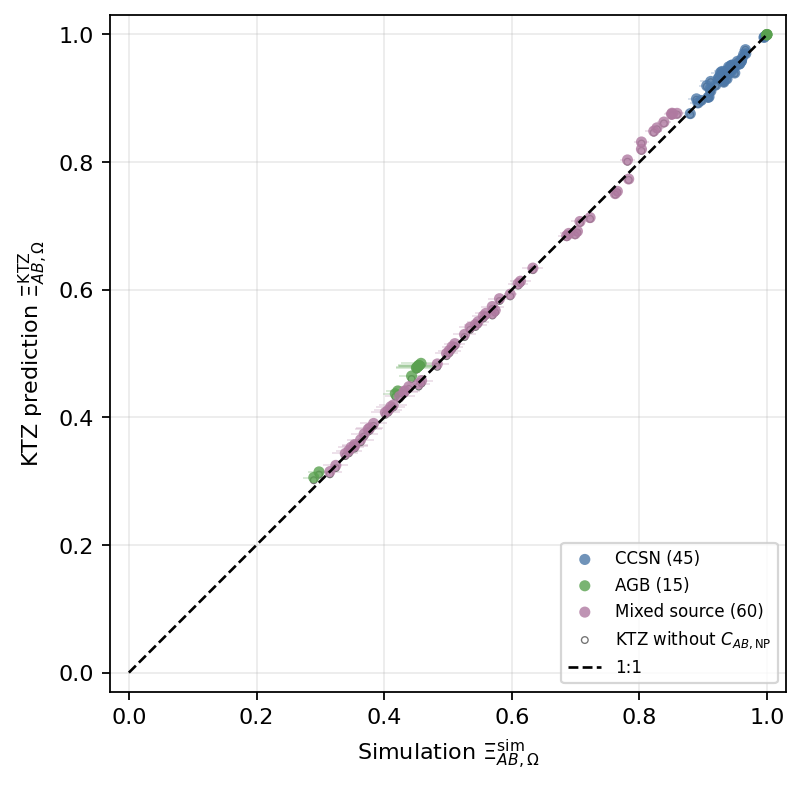
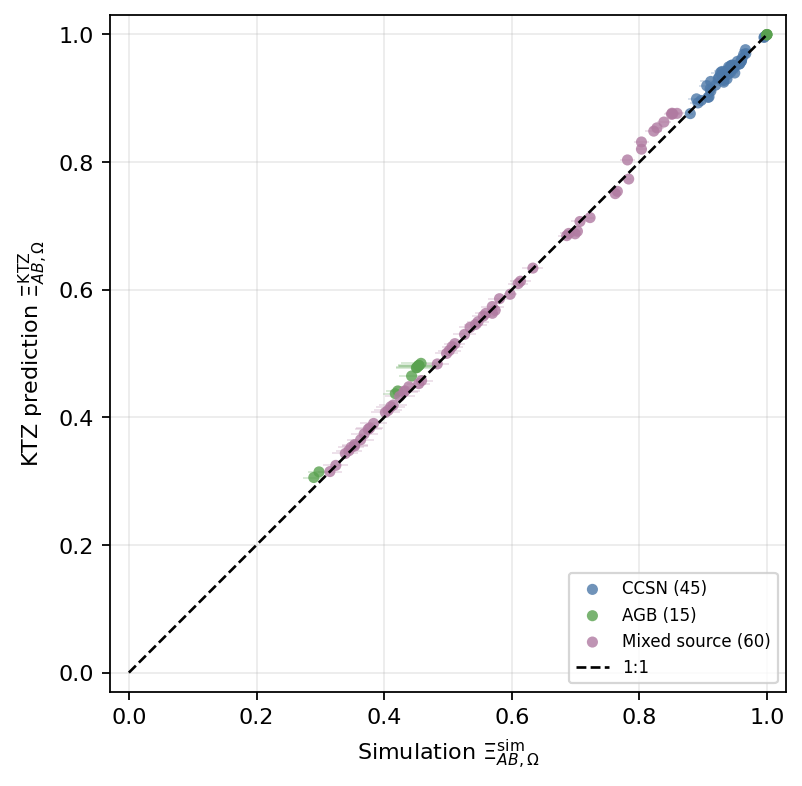
Sync verified manuscript revision and simplify validation Figures 4 and 5

Changed region(s): [[0.6858, 0.6718, 0.9663, 0.855]]

diff --git a/validation/replot_cross_scatter.py b/validation/replot_cross_scatter.py
@@ -1,7 +1,7 @@
-"""Redraw Fig. 5 from archived arrays and original yields, without simulation.
+"""Redraw Fig. 5 (and optionally Fig. 4) from archived arrays, without simulation.
 
 Run from the repository root:
-    python validation/replot_cross_scatter.py --outdir /tmp/ktz-figures
+    python validation/replot_cross_scatter.py --matrices --outdir /tmp/ktz-figures
 """
 import argparse, hashlib, json, sys
 from pathlib import Path
@@ -14,6 +14,7 @@ ap=argparse.ArgumentParser()
 ap.add_argument('--script',default='KTZ_validation.py')
 ap.add_argument('--outdir',default='figs')
 ap.add_argument('--dump')
+ap.add_argument('--matrices', action='store_true', help='Also redraw the Fig. 4 matrices')
 args=ap.parse_args()
 ROOT=Path(__file__).resolve().parents[1]
 script=Path(args.script)
@@ -27,15 +28,25 @@ end=src.index('kt25_delay =',start)
 exec(compile(src[start:end],args.script+' [yield inputs only]','exec'),ns)
 a=dict(np.load(ROOT/'validation/outputs/cross_results.npz'))
 idx=[ns['kt25_elements'].index(e) for e in a['elements']]
-ns.update(Xi_sim=a['Xi_sim'],Xi_sim_err=a['Xi_sim_err'],th_sub=a['Xi_KTZ'],th_sub_n=a['Xi_KTZ_noCNP'],cmean=ns['kt25_mean_yield'][idx])
+ns.update(Xi_sim=a['Xi_sim'],Xi_sim_err=a['Xi_sim_err'],th_sub=a['Xi_KTZ'],th_sub_n=a['Xi_KTZ_noCNP'],kt_sub=a['Xi_KT25'],cross_elements=a['elements'].tolist(),cmean=ns['kt25_mean_yield'][idx])
 out=Path(args.outdir);out.mkdir(parents=True,exist_ok=True)
 ns['figure_path']=lambda name:out/f'validation_{name}.png'
+def h(x):return hashlib.sha256(np.ascontiguousarray(x).tobytes()).hexdigest()
+matrix_panels=[]
+if args.matrices:
+    start=src.index('diff = th_sub - kt_sub;',src.index('# %% Block 12:'))
+    end=src.index('\niu = np.triu_indices(16, 1)',start)
+    exec(compile(src[start:end],args.script+' [matrix plotting only]','exec'),ns)
+    matrix_panels=[{'title':ax.get_title(),'data':h(ax.images[0].get_array()),'clim':list(ax.images[0].get_clim())} for ax in ns['axes']]
 start=src.index('iu = np.triu_indices(16, 1)',src.index('# %% Block 12:'))
 end=src.index('\ndd = s_ - t_',start)
 exec(compile(src[start:end],args.script+' [scatter plotting only]','exec'),ns)
-def h(x):return hashlib.sha256(np.ascontiguousarray(x).tobytes()).hexdigest()
 ax=ns['ax']
 record={'inputs':{k:h(v) for k,v in a.items()},'groups':ns['grp'].tolist(), 'lines':[h(l.get_xydata()) for l in ax.lines], 'xlabel':ax.get_xlabel(),'ylabel':ax.get_ylabel(),'limits':[list(ax.get_xlim()),list(ax.get_ylim())]}
+record['matrix_panels']=matrix_panels
+record['scatter']=[{'label':c.get_label(),'offsets':h(c.get_offsets()),'facecolors':h(c.get_facecolors()),'sizes':h(c.get_sizes())} for c in ax.collections if hasattr(c,'get_sizes')]
+record['errorbars']=[{'segments':h(np.asarray(c.get_segments())),'colors':h(c.get_colors())} for c in ax.collections if hasattr(c,'get_segments')]
+record['legend']=ax.get_legend_handles_labels()[1]
 if args.dump:
     Path(args.dump).write_text(json.dumps(record,indent=2))
 print(args.outdir,record['xlabel'],record['ylabel'])

diff --git a/KTZ_validation.py b/KTZ_validation.py
@@ -844,7 +844,7 @@ fig, axes = plt.subplots(1, 3, figsize=(13.2, 4.25), constrained_layout=True)
 for ax, (M, title, cmap, norm_) in zip(axes, [
         (kt_sub, r'Published KT25 (uniform): $\Xi_{AB}$', 'viridis', None),
         (th_sub, r'Full KTZ (beam-matched): $\Xi_{AB}$', 'viridis', None),
-        (diff, r'$\Delta\Xi_{AB}={\rm KTZ}-{\rm KT25\ (published)}$', 'RdBu_r', TwoSlopeNorm(vmin=-lim, vcenter=0, vmax=lim))]):
+        (diff, r'$\Delta\Xi_{AB}={\rm KTZ}-{\rm KT25}$', 'RdBu_r', TwoSlopeNorm(vmin=-lim, vcenter=0, vmax=lim))]):
     im = ax.imshow(M, origin='lower', cmap=cmap, vmin=None if norm_ else 0, vmax=None if norm_ else 1, norm=norm_)
     ax.set_xticks(range(16)); ax.set_yticks(range(16)); ax.set_xticklabels(cross_elements, rotation=90); ax.set_yticklabels(cross_elements)
     ax.set_title(title, fontsize=11); fig.colorbar(im, ax=ax, fraction=0.046, pad=0.03)
@@ -864,7 +864,6 @@ for lab in ['CCSN', 'AGB', 'TNSN', 'Mixed source']:
         continue
     ax.errorbar(s_[s], t_[s], xerr=se_[s], fmt='none', ecolor=cols[lab], elinewidth=0.8, alpha=0.25, zorder=1)
     ax.scatter(s_[s], t_[s], s=25, color=cols[lab], alpha=0.8, edgecolors='none', label=f'{lab} ({s.sum()})', zorder=2)
-ax.scatter(s_, tn_, s=9, facecolors='none', edgecolors='0.45', lw=0.6, label=r'KTZ without $C_{AB,{\rm NP}}$', zorder=1.5)
 lo_, hi_ = min(0, s_.min(), t_.min(), tn_.min()), max(1, s_.max(), t_.max())
 ax.plot([lo_, hi_], [lo_, hi_], 'k--', lw=1.2, label='1:1')
 ax.set_xlim(lo_ - 0.03, hi_ + 0.03); ax.set_ylim(lo_ - 0.03, hi_ + 0.03); ax.set_aspect('equal', adjustable='box')

diff --git a/amusing/release_20261022/VERIFICATION.md b/amusing/release_20261022/VERIFICATION.md
@@ -1,8 +1,28 @@
-# Release verification, 22 October 2026
+# Release verification
 
-## Readability and plotting-label synchronization
+## Manuscript binding and plot-only cleanup, 23 October 2026
 
-The current `metadata/manuscript_state.json` records the latest Overleaf text.
+The current `metadata/manuscript_state.json` records the checked manuscript
+revision and its bibliography, figures and numerical-validation code hashes.
+Three verified text corrections fix a misplaced introduction, the NGC 2466 S
+L2 association-length upper uncertainty (+0.6 kpc from archived quantiles), and
+the general template-mode notation. No new diagnostic or scientific claim was
+added. The subsequent Figure 4/5 cleanup changes only the third matrix-panel
+title and removes the no-C_AB,NP scatter comparison and its caption clause.
+
+Both figures were redrawn from `cross_results.npz`, without entering simulation
+or covariance-calculation blocks. Matplotlib 3.10.9 control redraws match the
+preceding images pixel for pixel. Fingerprints of retained matrix values,
+colour scales, scatter coordinates, error bars, channel groups, axis limits and
+the 1:1 line agree before and after; the no-CNP numerical results and all quoted
+validation metrics are retained. Python and notebook plotting cells agree.
+The final saved manuscript compiled successfully in the desktop editor.
+These checks do not claim a new Overleaf compilation or synchronization.
+
+## Historical readability and plotting-label synchronization, 22 October 2026
+
+The following records the 22 October Overleaf revision, whose source hash was
[1 lines of base64/hex data omitted]
 The corresponding Figure 5 axes use full-window `Xi_AB,Omega` notation, and
 Figures 7/8 use `L2 total` instead of `sum (L2)`, with slightly larger legends.
 Python and notebook plotting-source labels agree. Plot-only redraws preserve
@@ -62,8 +82,8 @@ current inputs, products and explicit reproduction entrypoints available togethe
 - Python syntax and all five explicit current fit-command configurations pass.
   Input-copy tests pass checksum, repeat-copy idempotence and overwrite refusal.
   These checks do not claim that a fresh end-to-end fit was executed.
-- Overleaf source was read back in full and exactly matches the manuscript SHA
-  in `metadata/manuscript_state.json`. Only four local wording replacements in
+- Overleaf source was read back in full and exactly matched the manuscript SHA
+  recorded for that historical release. Only four local wording replacements in
   two paragraphs were made in Reviewing mode: the map-specific pair counts and
   the actual scope of the original direct-pair tests. The Abstract,
   Acknowledgements, numerical results and other scientific content are unchanged.

diff --git a/amusing/release_20261022/READABILITY_UPDATE.md b/amusing/release_20261022/READABILITY_UPDATE.md
@@ -1,11 +1,40 @@
-# Readability synchronization, 22 October 2026
+# Manuscript version record
 
-Current Overleaf manuscript SHA-256:
+## Current manuscript binding and plot cleanup, 23 October 2026
+
+Manuscript SHA-256:
[1 lines of base64/hex data omitted]
+Bibliography SHA-256:
[1 lines of base64/hex data omitted]
+
+The independent-review corrections fix the introduction to the variables and
+covariance amplitude, round the NGC 2466 S L2 association-length upper uncertainty to
+0.6 kpc from the archived posterior quantiles, and use the general template-mode
+notation nu_k = k Delta x instead of the spiral-specific nu_n. No new numerical
+diagnostic or sensitivity claim is added. The local source compiled successfully
+with the desktop editor's compiler.
+
+The subsequent display-only cleanup removes `(published)` from the third
+Figure 4 panel title and the grey no-C_AB,NP comparison points and legend entry
+from Figure 5. Its caption no longer describes the removed points. Both figures
+were redrawn from archived arrays with Matplotlib 3.10.9; control redraws match
+the preceding figures pixel for pixel, and retained matrix values, colour scales,
+scatter coordinates, error bars and source-channel assignments are unchanged.
+The script and notebook plotting cells match. No fit or simulation was rerun,
+and no scientific array or quoted validation metric was edited.
+
+GitHub publication is tracked by repository commits. This record does not
+assert that Overleaf is synchronized. The 22 October record below is retained
+as historical provenance, including its source hash and compilation statement.
+
+## Historical readability synchronization, 22 October 2026
+
+Overleaf manuscript SHA-256 recorded on that date:
[1 lines of base64/hex data omitted]
 The manuscript source and PDF remain on Overleaf; this repository retains its
 existing scope of scientific code, derived products and version records.
 
-## Text and notation
+### Text and notation
 
 The text distinguishes disc inclination from spiral pitch angle, residual
 second moments from connected covariances, and a parent complex from the
@@ -21,7 +50,7 @@ generation, and calls the regression significance a moment-based
 Gaussian-equivalent local score. These are descriptions of existing calculations,
 not changes to them.
 
-## Plotting
+### Plotting
 
 - Figure 5 labels the full-window coefficients with `sim` and `KTZ` superscripts
   and an `Omega` subscript. It no longer puts averaging brackets around an

diff --git a/validation/README.md b/validation/README.md
@@ -2,9 +2,10 @@
 
 Generates every number and figure of Section 3 of the manuscript.
 
-The 22 October readability revision changes only the Figure 5 axis labels in
-the script and notebook. Existing executed scientific outputs are retained;
-the simulation was not rerun for this label-only update.
+The 23 October plot-only cleanup removes `(published)` from the third Figure 4
+panel title and removes the grey no-`C_AB,NP` comparison points and legend entry
+from Figure 5. The script and notebook plotting cells agree; archived numerical
+results and quoted comparison metrics are unchanged. The simulation was not rerun.
 
 * `KTZ_validation.ipynb` — executed notebook (clean kernel, 0 errors, runtime 994 s on 2 cores).
   It is built from `KTZ_validation.py` (`# %%` cells) with
@@ -24,14 +25,15 @@ the simulation was not rerun for this label-only update.
 * `validation/sector_cnp_phase_diagnostic.py` is the arm-sector check with midpoint-modulated `C_NP`.
 * `validation/diagnostics/` records the focused checks used to diagnose the earlier cross-correlation bias.
 
-Redraw Figure 5 alone from `validation/outputs/cross_results.npz`:
+Redraw Figures 4 and 5 from `validation/outputs/cross_results.npz`:
 
 ```bash
-python validation/replot_cross_scatter.py --outdir /tmp/ktz-figures --dump /tmp/figure5-fingerprints.json
+python validation/replot_cross_scatter.py --matrices --outdir /tmp/ktz-figures --dump /tmp/cross-figure-fingerprints.json
 ```
 
 This reads the original deterministic yield tables to preserve the source-channel
-groups and executes only the scatter-plot block of `KTZ_validation.py`. It does
+groups and executes only the matrix/scatter plotting blocks of `KTZ_validation.py`.
+Omit `--matrices` to redraw Figure 5 alone. It does
 not generate events, recompute covariance matrices or run a fit. The axes denote
 the full-window coefficients `Xi_AB,Omega` with `sim` and `KTZ` superscripts;
 covariance matrices are averaged before normalization. NumPy, Matplotlib and

diff --git a/amusing/release_20261022/README.md b/amusing/release_20261022/README.md
@@ -6,9 +6,11 @@ change any accepted scientific result. The two reference fields are selected
 illustrations, not a population sample. The numerical validation is still
 reproduced by the root `KTZ_validation.ipynb`.
 
-The [readability update](READABILITY_UPDATE.md) binds these unchanged scientific
-products to the latest Overleaf text and updates the plotting labels in Figures
-5, 7 and 8. It introduces no new fit, covariance, posterior or evidence result.
+The [manuscript version record](READABILITY_UPDATE.md) binds these unchanged
+scientific products to the current manuscript and retains the history of the
+display-only updates in Figures 4, 5, 7 and 8. It introduces no new fit,
+covariance, posterior or evidence result; the record distinguishes local updates
+from remote synchronization.
 
 ## Current products, not historical defaults
 
